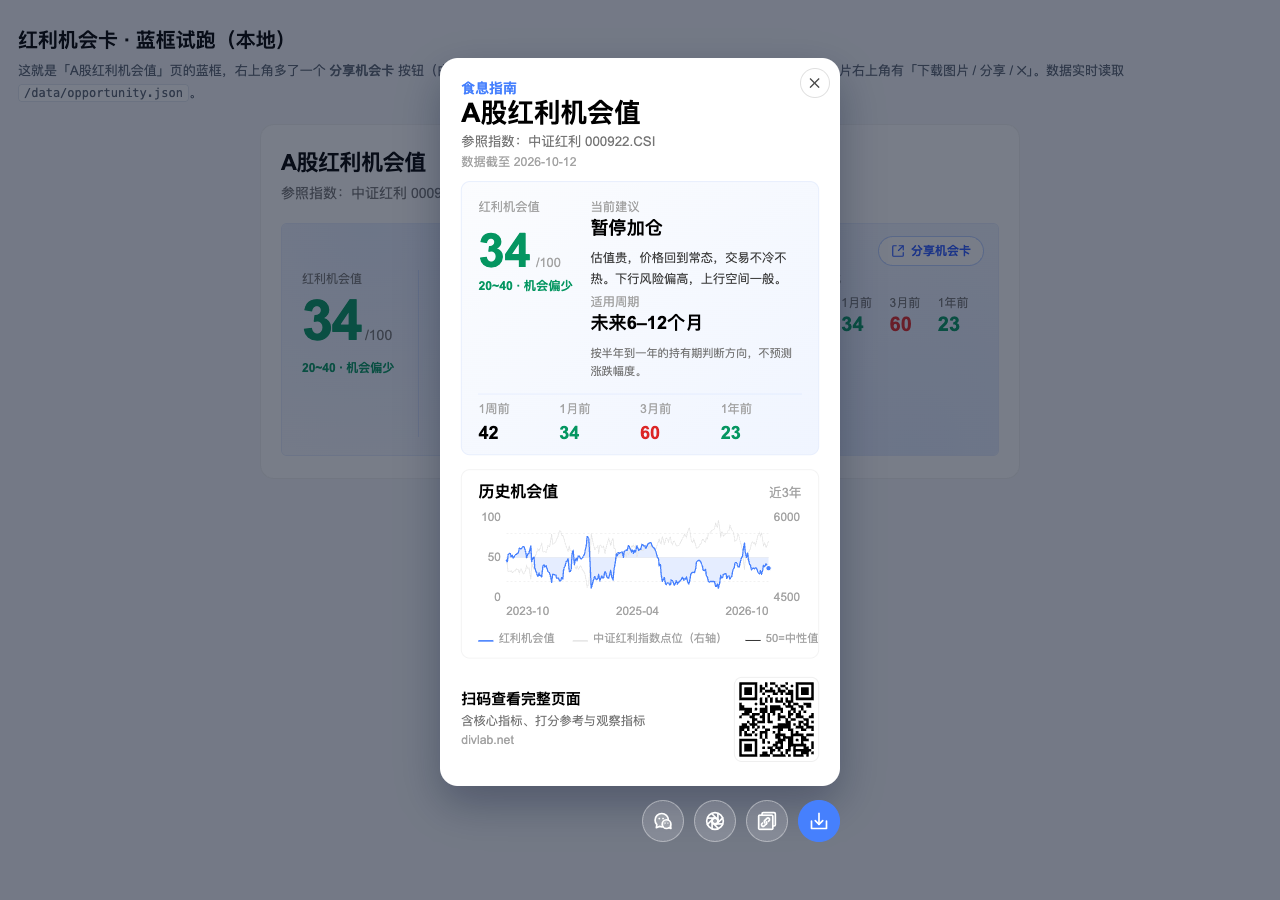
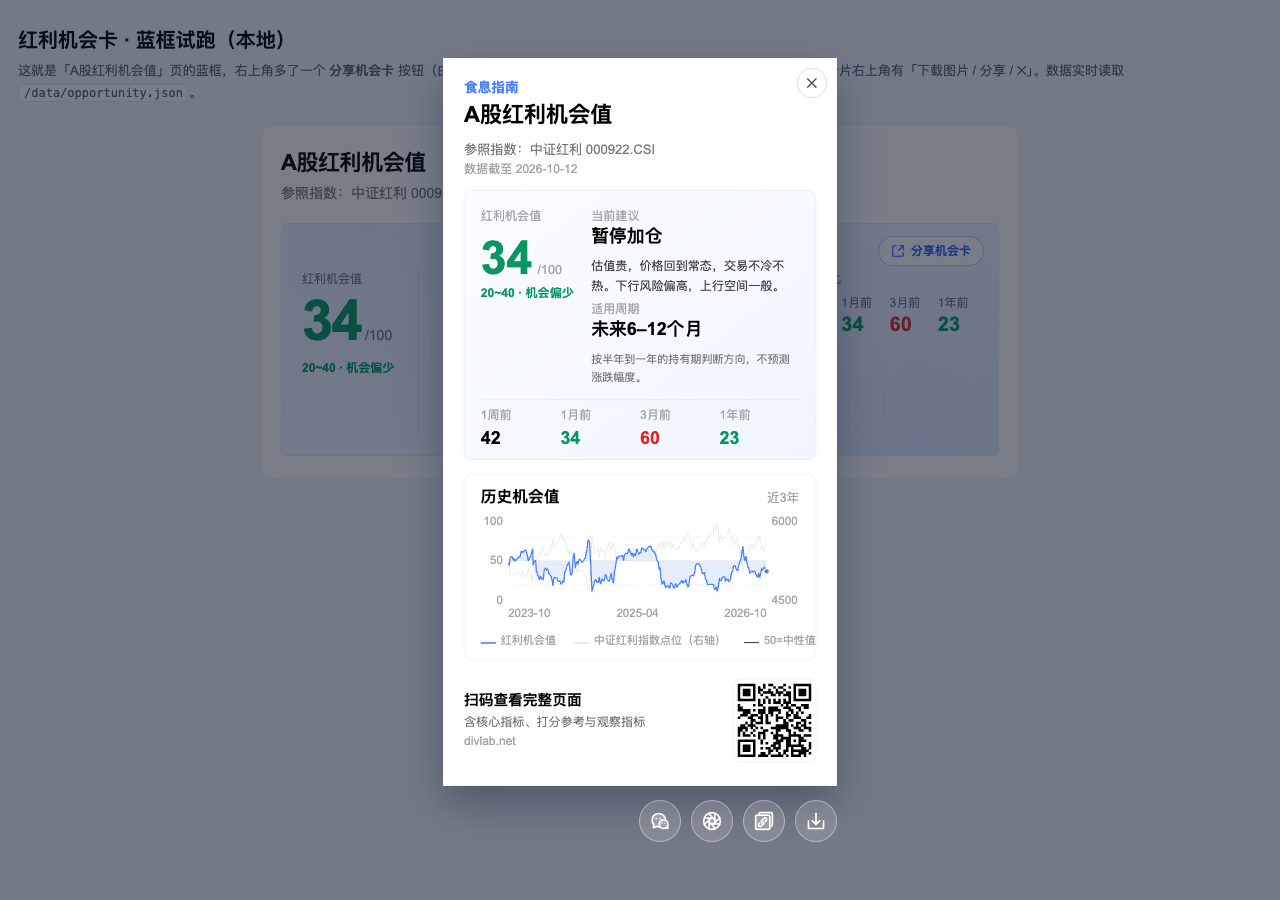
feat: 机会卡直角化 + 主标题留白 + 整图浅灰描边，下载按钮不再标蓝
- 卡面去圆角改直角
- 主标题 50→42px，拉开与参照指数/数据截止的行距
- 整图四周加 rgba(0,0,0,0.06) 细线（与主站 Header 下边线同色），白底导出也有边界
- 4 个操作按钮去掉下载的 primary 标蓝，风格统一

diff --git a/opportunity-card.js b/opportunity-card.js
@@ -122,16 +122,16 @@
     var score = Math.round(d.score), b = bandOf(score), bandText = b[0] + '~' + b[1] + ' · ' + b[2];
     var pad = 40, iw0 = CW - pad * 2, parts = [], y = 0;
 
-    /* 头部（行距放宽，避免挤在一起） */
-    y = 66;
+    /* 头部（主标题缩小、上下留白拉开，避免与相邻文字挤在一起） */
+    y = 64;
     parts.push(T(pad, y, '食息指南', 26, C.brand, { weight: 700 }));
-    y += 54;
-    parts.push(T(pad, y, 'A股红利机会值', 50, C.ink, { weight: 700 }));
-    y += 46;
+    y += 58;
+    parts.push(T(pad, y, 'A股红利机会值', 42, C.ink, { weight: 700 }));
+    y += 60;
     parts.push(T(pad, y, '参照指数：' + idxText(d.index), 25, C.muted));
-    y += 36;
+    y += 38;
     parts.push(T(pad, y, '数据截至 ' + (d.asof || '—'), 23, C.faint));
-    y += 30;
+    y += 32;
 
     /* 蓝框 */
     var boxTop = y, ip = 32, cellX = pad + ip, cellW = iw0 - ip * 2;
@@ -202,6 +202,8 @@
       + '<defs><linearGradient id="oppBlueGrad" x1="0" y1="0" x2="1" y2="1">'
       + '<stop offset="0" stop-color="#FBFCFE"/><stop offset="1" stop-color="#F0F5FF"/></linearGradient></defs>'
       + '<rect x="0" y="0" width="' + CW + '" height="' + H.toFixed(0) + '" fill="#ffffff"/>'
+      /* 整图四周浅灰细线（与主站 Header 下边线同色 rgba(0,0,0,0.06)）；下载到纯白背景也能看出边界 */
+      + '<rect x="0.75" y="0.75" width="' + (CW - 1.5) + '" height="' + (H - 1.5) + '" fill="none" stroke="' + C.line + '" stroke-width="1.5"/>'
       + parts.join('') + '</svg>';
   }
 
@@ -232,7 +234,7 @@
     /* 外层宽度 = 卡面宽度（width:min-content 由卡图决定），按钮行因此在卡宽内自动折行、右对齐 */
     '.oppCardWrap{position:relative;display:flex;flex-direction:column;align-items:center;max-height:100%;width:min-content;max-width:100%}',
     '.oppCardStage{position:relative;display:flex;justify-content:center;min-height:0}',
-    '.oppCardBox img{display:block;max-width:min(94vw,470px);max-height:calc(100vh - 172px);width:auto;height:auto;border-radius:18px;box-shadow:0 18px 44px rgba(8,20,48,.34)}',
+    '.oppCardBox img{display:block;max-width:min(94vw,470px);max-height:calc(100vh - 172px);width:auto;height:auto;box-shadow:0 18px 44px rgba(8,20,48,.34)}',
     '.oppCardClose{position:absolute;top:10px;right:10px;z-index:3;width:30px;height:30px;border-radius:50%;cursor:pointer;',
     'border:1px solid rgba(0,0,0,.12);background:rgba(255,255,255,.94);color:#525252;font-size:14px;line-height:1;display:flex;align-items:center;justify-content:center}',
     '.oppCardClose:hover{background:#fff;color:#111}',
@@ -242,8 +244,6 @@
     'cursor:pointer;border:1px solid rgba(255,255,255,.34);background:rgba(255,255,255,.14);color:#fff}',
     '.oppCardBtn:hover{background:rgba(255,255,255,.26)}',
     '.oppCardBtn svg{width:20px;height:20px;display:block;flex:none}',
-    '.oppCardBtn.primary{background:#4680FD;border-color:#4680FD}',
-    '.oppCardBtn.primary:hover{background:#2E5BFF}',
     /* 微信 / 朋友圈：在按钮行上方浮出二维码面板 */
     '.oppWxPanel{position:absolute;right:0;bottom:calc(100% + 10px);background:#fff;border:1px solid rgba(0,0,0,.08);border-radius:14px;',
     'box-shadow:0 12px 34px rgba(8,20,48,.28);padding:14px;text-align:center;width:214px;z-index:4}',
@@ -290,7 +290,7 @@
       + '<button type="button" class="oppCardBtn" data-act="wx" title="分享到微信" aria-label="分享到微信">' + ICO.wx + '</button>'
       + '<button type="button" class="oppCardBtn" data-act="moments" title="分享到朋友圈" aria-label="分享到朋友圈">' + ICO.moments + '</button>'
       + '<button type="button" class="oppCardBtn" data-act="copy" title="复制链接" aria-label="复制链接">' + ICO.link + '</button>'
-      + '<button type="button" class="oppCardBtn primary" data-act="save" title="下载到本地" aria-label="下载到本地">' + ICO.save + '</button>'
+      + '<button type="button" class="oppCardBtn" data-act="save" title="下载到本地" aria-label="下载到本地">' + ICO.save + '</button>'
       + '<div class="oppWxPanel" id="oppWxPanel" hidden></div>'
       + '</div></div>';
     document.body.appendChild(mask);

diff --git a/deploy/待部署清单.md b/deploy/待部署清单.md
@@ -6,5 +6,6 @@
 | 2026-10-12 21:20 | 修复 | 新增港ETF 自动补入脚本：显式写入空的「官方详情页」并输出「须人工补」告警（防止以后再静默漏掉该字段） | sync_new_hk_etf.py |
 | 2026-10-12 22:05 | 页面 | 「A股红利机会值」蓝框右上角新增「分享机会卡」按钮：点开居中弹出红利机会卡（样式 A），卡面右上角有「下载图片 / 分享 / 关闭」；卡片含机会值、参照指数、蓝框内容、近3年历史机会值图表与固定二维码 | opportunity-card.js（新增）、index.html |
 | 2026-10-12 22:05 | 脚本 | `check_data.py` 前端 JS 语法检查扩展到「index.html 引用的本地 .js」（含新增的 opportunity-card.js） | check_data.py |
+| 2026-10-12 23:35 | 页面 | 机会卡再调整：① 整图改**直角**（去掉圆角）；② 主标题「A股红利机会值」字号 50→42 并拉开与上下文字的行距；③ 整图四周加**浅灰细线**（与主站 Header 下边线同色 `rgba(0,0,0,0.06)`），下载到纯白背景也能看出边界；④ 4 个操作按钮去掉「下载」的默认标蓝，统一为同一底色 | opportunity-card.js |
 | 2026-10-12 23:15 | 页面 | 卡面下方 4 个操作按钮改为**纯图标圆形按钮**（去文字，鼠标悬停/无障碍标签仍标明含义）：微信 / 朋友圈 / 复制链接 / 下载到本地；图标统一取自 IconPark（wechat、friends-circle、copy-link、download、share） | opportunity-card.js |
 | 2026-10-12 22:40 | 页面 | 按反馈调整机会卡：①「分享机会卡」按钮改为**贴蓝框右上角**（PC/移动一致，蓝框留出上边距）；② 卡面**右上角只留 ✕**，「下载图片 / 分享」移到**卡面右下方、图外**；③「分享」点开在按钮上方浮出选项（微信 / 朋友圈 / 复制链接 / 保存图片），微信、朋友圈出二维码（桌面扫码）、微信内置浏览器给「右上角 ⋯」引导；④ 卡面折行改用 canvas 精确度量 + 中文禁则，放宽行距，缓解拥挤 | opportunity-card.js |
